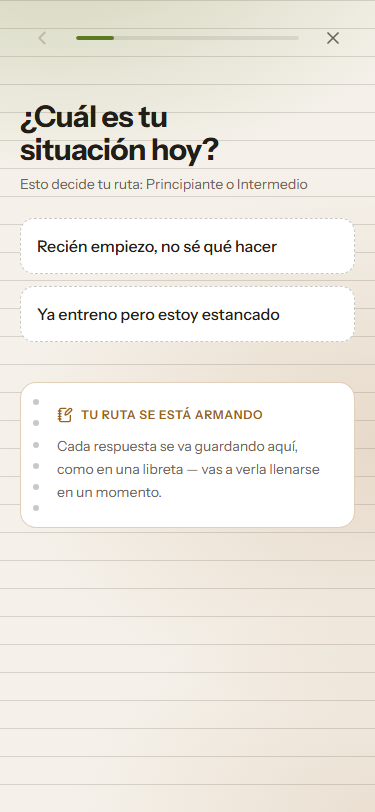
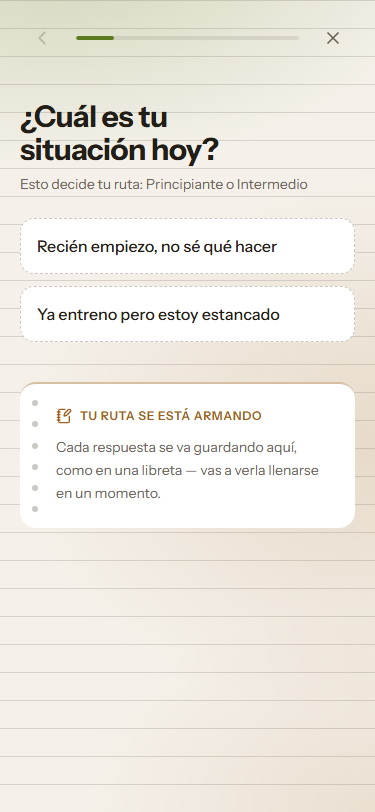
fix: botón volver arriba en landing + tarjeta menos "tocable" en onboarding
Landing: agrega BotonVolverArriba (aparece al bajar, no tapa el CTA
sticky) — corrige la única heurística de usabilidad que faltaba tras
llegar a craft 17/20 y copy 19/20 en la ronda anterior.

Onboarding: TarjetaRuta pasa de borde completo a solo hairline
superior (ya no se confunde con un chip tocable sin onClick), padding
horizontal simétrico, y la entrada de los chips ahora respeta
prefers-reduced-motion.

Changed region(s): [[0.1467, 0.4926, 0.8507, 0.6158]]

diff --git a/app/onboarding/page.tsx b/app/onboarding/page.tsx
@@ -346,12 +346,13 @@ function TarjetaRuta({
   ];
 
   return (
-    <div className="relative mt-10 overflow-hidden rounded-[var(--radius-card)] border border-[color-mix(in_oklab,var(--accent-2)_30%,transparent)] bg-[var(--surface)] py-6 pr-6 pl-9">
-      {/* Borde SÓLIDO (no punteado): los chips no-seleccionados también usan
-          borde punteado — con el mismo estilo aquí, la tarjeta se leía como
-          "tocable" sin serlo (hallazgo revisor-visual). El ámbar (2ª nota de
-          FICHA-ARTE) vive aquí de forma REAL y visible, no solo en un
-          degradé de fondo casi imperceptible. */}
+    <div className="relative mt-10 overflow-hidden rounded-[var(--radius-card)] border-t-2 border-t-[color-mix(in_oklab,var(--accent-2)_40%,transparent)] bg-[var(--surface)] py-6 pr-9 pl-9">
+      {/* Solo hairline SUPERIOR (no un borde completo): un borde entero + ícono
+          + etiqueta en mayúsculas se leía como un ítem tocable, igual que los
+          chips reales, sin tener onClick (hallazgo revisor-visual). Un
+          separador arriba basta para distinguirla del fondo sin fingir que
+          responde al tap. El ámbar (2ª nota de FICHA-ARTE) vive en ese
+          hairline + el ícono/etiqueta, de forma REAL y visible. */}
       {/* Espiral de encuadernación (mundo del sujeto: la tarjeta ES una hoja
           de cuaderno) — dispositivo ownable reforzado, distinto del grano del
           ejemplo vetado del banco canónico. */}
@@ -420,6 +421,8 @@ function Chips<T extends string>({
   valor: T | null;
   onSelect: (v: T) => void;
 }) {
+  const reduce = useReducedMotion();
+
   // Navegación por flechas entre chips (a11y — el tab nativo solo avanza de a
   // uno; ↑/↓ deben moverse dentro del grupo, como un radiogroup real).
   function moverFoco(desde: number, delta: 1 | -1) {
@@ -451,9 +454,9 @@ function Chips<T extends string>({
               }
             }}
             whileTap={{ scale: 0.97 }}
-            initial={{ opacity: 0, y: 10 }}
+            initial={reduce ? false : { opacity: 0, y: 10 }}
             animate={{ opacity: 1, y: 0 }}
-            transition={{ delay: i * 0.05, duration: 0.25 }}
+            transition={{ delay: reduce ? 0 : i * 0.05, duration: reduce ? 0 : 0.25 }}
             className={`flex min-h-14 items-center gap-3 rounded-[var(--radius-button)] border px-4 py-3.5 text-left text-base font-medium transition-colors focus-visible:outline-2 focus-visible:outline-offset-2 focus-visible:outline-[var(--accent)] ${
               seleccionado
                 ? 'border-[var(--accent)] bg-[var(--chip-bg)] text-[var(--text-primary)]'

diff --git a/components/landing/ui.tsx b/components/landing/ui.tsx
@@ -8,7 +8,7 @@
 
 import { useEffect, useState, type ReactNode } from 'react';
 import { AnimatePresence, motion, useReducedMotion, type Variants } from 'motion/react';
-import { Check } from 'lucide-react';
+import { ArrowUp, Check } from 'lucide-react';
 import type { LucideIcon } from 'lucide-react';
 
 /* ── <Accent> — la palabra que vende, en el acento del kit ─────────────────── */
@@ -239,6 +239,40 @@ export function StickyCtaMobile({
             {ofertaVista ? labelComercial : labelPre}
           </motion.a>
         </motion.div>
+      )}
+    </AnimatePresence>
+  );
+}
+
+/* ── <BotonVolverArriba> — heurística 3 (control y libertad): en una página
+   larga (~8000px) hace falta una forma de reorientarse sin scrollear a mano.
+   Aparece tras bajar un tramo, encima de <StickyCtaMobile> (nunca la tapa). ── */
+export function BotonVolverArriba() {
+  const [visible, setVisible] = useState(false);
+  const reduce = useReducedMotion();
+
+  useEffect(() => {
+    const onScroll = () => setVisible(window.scrollY > 800);
+    onScroll();
+    window.addEventListener('scroll', onScroll, { passive: true });
+    return () => window.removeEventListener('scroll', onScroll);
+  }, []);
+
+  return (
+    <AnimatePresence>
+      {visible && (
+        <motion.button
+          type="button"
+          aria-label="Volver arriba"
+          onClick={() => window.scrollTo({ top: 0, behavior: reduce ? 'auto' : 'smooth' })}
+          initial={{ opacity: 0, y: 10 }}
+          animate={{ opacity: 1, y: 0 }}
+          exit={{ opacity: 0, y: 10 }}
+          whileTap={{ scale: 0.92 }}
+          className="fixed right-4 bottom-24 z-40 flex size-11 items-center justify-center rounded-full border border-[color-mix(in_oklab,var(--text-tertiary)_20%,transparent)] bg-[var(--surface)] text-[var(--text-primary)] shadow-[var(--shadow-2)] [touch-action:manipulation]"
+        >
+          <ArrowUp size={18} aria-hidden="true" />
+        </motion.button>
       )}
     </AnimatePresence>
   );

diff --git a/app/page.tsx b/app/page.tsx
@@ -12,7 +12,7 @@ import { Garantia } from '@/components/landing/Garantia';
 import { Faq } from '@/components/landing/Faq';
 import { CtaFinal } from '@/components/landing/CtaFinal';
 import { FooterLegal } from '@/components/landing/FooterLegal';
-import { CtaButton, StickyCtaMobile } from '@/components/landing/ui';
+import { BotonVolverArriba, CtaButton, StickyCtaMobile } from '@/components/landing/ui';
 
 // Modelo 2 (onboarding-first, decidido en Sesión 1 — ver ESTADO.md): el CTA
 // lleva a /onboarding, nunca al checkout directo desde el hero.
@@ -216,6 +216,7 @@ export default function LandingGymEvo() {
       />
 
       <StickyCtaMobile labelComercial={CTA_LABEL} href={CTA_HREF} />
+      <BotonVolverArriba />
     </div>
   );
 }
